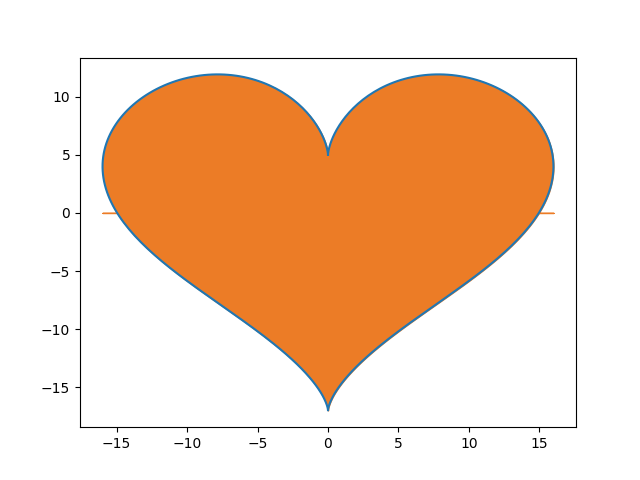
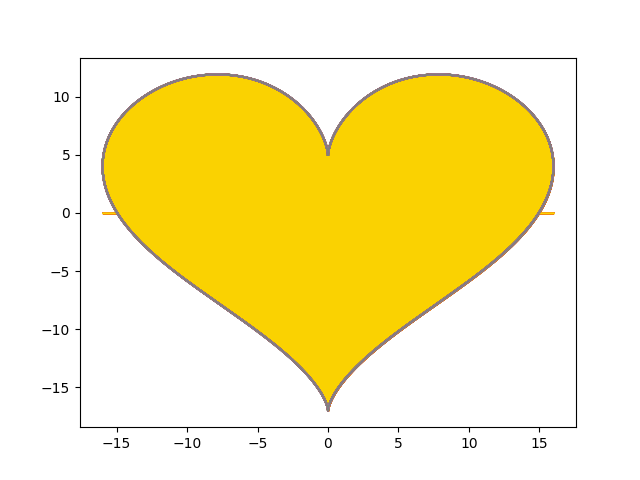
Finished pytest and docstring for the Number class.

diff --git a/number.py b/number.py
@@ -8,40 +8,47 @@ from collections import Counter
 
 
 class Number:
-    """This class takes care of the translation from input digits o corrsponding tarot card."""
+    """This class takes care of the translation from input digits o corrsponding tarot card.
+    Attributes:
+        number (int): A four-digit number input.
+        sentence (str): A sentence input.
+        alphabet_array (string array): An np array that stores the unique alphabet appeared in the sentence input.
+        alphabet_count (dict): A counter object that keep tracks of the frequency of the alphabets appeared.
+    """
 
-    def __init__(self, number=-1, sentence=""):
-        """Initializes the input number and sentence
-        modulus_stat (dict): A set that counts how many people got the same number from method translator()
+    def __init__(self, number=-1, sentence="", boo=False):
+        """Initializes the input number and sentence into lowercase letters.
+        Args:
+            alphabet_array (string array): An np array that stores the unique alphabet appeared in the sentence input.
+            alphabet_count (dict): A counter object that keep tracks of the frequency of the alphabets appeared.
         """
         if number != -1:
-            self.number = number
             self.sentence = sentence
         else:
             self.sentence = sentence.lower()
-            self.number = number
-        self.modulus_count = Counter()
+        self.boo = boo  # For testing purposes
+        self.number = number
         self.alphabet_array = np.array([])
         self.alphabet_count = Counter()
         # print(self.sentence)
 
-    def translator(self, number):
-        """This method takes the 4 digit number and generates a corresponding number that hashes to a particular tarot card.
-        Args:
-            number (str): the number that the user inputs
+    def meaning_color_tb(self):
+        """Random sample color.csv and left join meaning.csv with color.csv according to their id.
         Returns:
-            An integer that links to a tarot card.
-            A png file of a pattern that is created by the input 4-digit number.
-        Raises:
-            ValueError: If user inputs alphabetical letters or not enough digits.
+            new_df (DataFrame): A new dataframe that only contains the colummns label, Englsih, HEX, description,
+            description_endroit, description_envers.
+        Note:
+            The return value should have 78 rows.
+            For testing purposes, if self.boo = True, then the function won't take a random sample.
         """
         df_meaning = pd.read_csv("meaning.csv")
         df_color = pd.read_csv("color.csv")
-        df_color = df_color.sample(frac=1).reset_index(drop=True)
+        if self.boo == False:
+            df_color = df_color.sample(frac=1).reset_index(drop=True)
+
         new_df = pd.merge(df_meaning, df_color, how="left", on="id").reset_index(
             drop=True
         )
-        print(len(new_df))
         new_df = new_df[
             [
                 "label",
@@ -52,7 +59,24 @@ class Number:
                 "description_envers",
             ]
         ]
-        trans = (random.randint(0, 1000) * int(number)) % 78
+        return new_df
+
+    def translator(self, number):
+        """This method takes in the 4 digit number and generates a corresponding number that hashes to a particular tarot card.
+        Args:
+            number (int): The number that the user inputs
+            boo (boolean): For testing purposes, I need to be able to predict the output number (i.e. trans), so if boo
+            is True, the random.randint(0, 1000) would be taken out.
+        Returns:
+            trans (int): An integer of modulo 78 that links to a tarot card.
+            A png file of a heart shape that is colored with your signature color.
+        """
+        new_df = self.meaning_color_tb()
+        if self.boo == True:
+            trans = int(number) % 78
+        else:
+            trans = (random.randint(0, 1000) * int(number)) % 78
+
         t = np.linspace(0, 2 * math.pi, 400)
         x = 16 * (np.sin(t) ** 3)
         y = 13 * np.cos(t) - 5 * np.cos(2 * t) - 2 * np.cos(3 * t) - np.cos(4 * t)
@@ -60,7 +84,7 @@ class Number:
         your_color_code = new_df.iat[trans, 2]
         your_color_name = new_df.iat[trans, 1]
         your_meaning = new_df.iloc[[trans], [0, 3, 4, 5]]
-        print(trans)
+        # print(trans)
         plt.fill_between(x, y, color=str(your_color_code))
         plt.savefig("your_color.png")
         print(f"Your signature color is {your_color_name}")
@@ -70,27 +94,30 @@ class Number:
         return trans
 
     def generator(self):
-        """Generates a random 4 digit number based on the sentence that the user put in. (Use regex)
-        Args:
-            sentence (str): A sentence that has a minimum of 4 characters and maximum of 20 characters.
+        """Generates a random 4 digit number based on the sentence that the user put in by identifying the ASCII
+        code of the most common letter.
         Returns:
-            A string of integers.
+            output (int): An integer (e.g. 97 for 'a') of the most common letter in the input sentence.
+        Note:
+            This function disregards any non-alphabet character (i.e. no spaces, puncuations, etc.).
         """
-        # print(type(self.modulus_count))
         tem = [i for i in self.sentence if i != " " and i.isalpha()]
-        # print(tem)
         self.alphabet_count.update(tem)
-        most_com = self.alphabet_count.most_common(1)[0][0]
+
+        tem_dict = sorted(
+            self.alphabet_count.items(), key=lambda x: (x[1], x[0]), reverse=True
+        )
+        # print(tem_dict)
+        most_com = tem_dict[0][0]
+
         output = self.translator(ord(most_com))
 
         return int(output)
 
     def stat(self):
-        """Returns the stat of previous users.
-        Args:
-            hash (int)
+        """Returns a histogram that shows the frequency of each letter in the input sentence.
         Returns:
-            A histogram (?)
+            A histogram plot.
         """
         url_num = self.generator()
         # print(self.alphabet_count)

diff --git a/main.py b/main.py
@@ -11,7 +11,7 @@ def parse_args(arglist):
     The following optional command-line arguments are defined:
 
     -n / --number: the 4-digit number that the user chooses.
-    -s / --sentence: A sentence with a maximum of 50 characters.
+    -s / --sentence: A sentence with no maximum characters.
     Args:
         arglist (list of str): a list of command-line arguments.
 
@@ -19,8 +19,8 @@ def parse_args(arglist):
         namespace: a string of a 4-digit integer.
     """
     parser = ArgumentParser()
-    parser.add_argument("--number", default=-1, help="input number")
-    parser.add_argument("--sentence", default="", help="input sentence")
+    parser.add_argument("-n", "--number", default=-1, help="input number")
+    parser.add_argument("-s", "--sentence", default="", help="input sentence")
     if parser is None:
         raise ValueError("Please input a sentence or a 4-digit number.")
     args = parser.parse_args(arglist)
